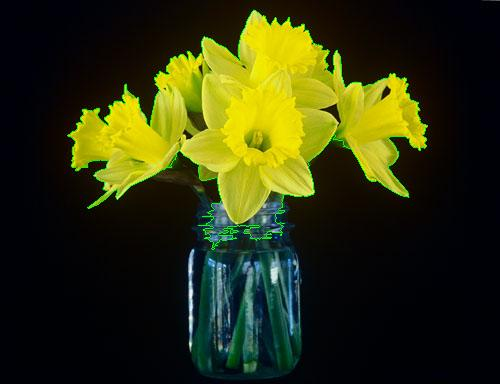
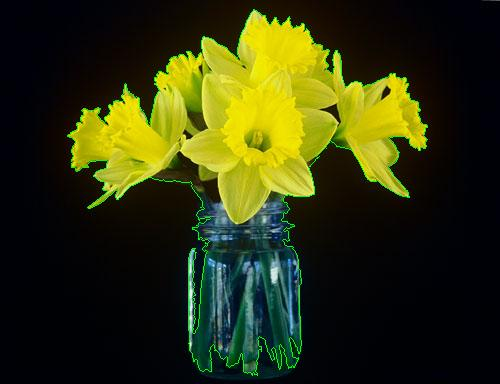
-Add new test`s image, -Little fix in names of functions, -Add documentation

diff --git a/Image.py b/Image.py
@@ -1,16 +1,17 @@
 from PIL import Image, ImageDraw
-from Backward_contour_tracing import BackwardTracindContor
+from Backward_contour_tracing import BackwardTracingContour
 import math
 
 
 class Picture:
     """
-
+    Class with represent Image. Class can find contour, make new segmentation`s
+    image from given, show and save image.
     """
     def __init__(self, name):
         """
-
-        :param name:
+        Init the class, open an image and make a copy`s image.
+        :param name: str
         """
         self.__image = Image.open(name)
         self.__seg_im = self.__image.copy()
@@ -18,18 +19,19 @@ class Picture:
 
     def find_contor(self):
         """
-
-        :return:
+        Find pixels with are in the contour.
+        :return: list
         """
-        bst = BackwardTracindContor(self.__seg_im)
+        bst = BackwardTracingContour(self.__seg_im)
         self.contor = bst.contor
 
         return bst.contor
 
     def segmentation(self):
         """
-
-        :return:
+        This function make a white-black image from the normal image. And use an another function
+        is_black() which are inside the segmentation().
+        :return: None
         """
         width = self.__seg_im.size[0]  # Ширина.
         height = self.__seg_im.size[1]  # Висота.
@@ -37,9 +39,10 @@ class Picture:
 
         def is_black(rgb):
             """
-
-            :param rgb:
-            :return:
+            This function take`s pixel which represent by list of rgb-colors and find
+            an Evklid`s value.
+            :param rgb: list
+            :return: bool
             """
             return math.sqrt(rgb[0] ** 2 + rgb[1] ** 2 + rgb[2] ** 2) < 50
 
@@ -54,8 +57,8 @@ class Picture:
 
     def show_image(self):
         """
-
-        :return:
+        This function draw contour onto given image and show new image.
+        :return: None
         """
 
         draw = ImageDraw.Draw(self.__image)
@@ -68,9 +71,9 @@ class Picture:
 
     def save_as(self, sava_as):
         """
-
-        :param sava_as:
-        :return:
+        This function can save ready image in JPEG format.
+        :param sava_as: sting
+        :return: None
         """
         self.__image.save(sava_as, "JPEG")
 

diff --git a/Tent.py b/Tent.py
@@ -2,12 +2,15 @@ import math
 
 
 class Tent:
+    """
+    This class represent eight connecting net.
+    """
     def __init__(self, pixel, pixels, start_position):
         """
-
-        :param pixel:
-        :param pixels:
-        :param start_position:
+        Init the pixel in centre of net, and net starting from the give position.
+        :param pixel: list
+        :param pixels: dict
+        :param start_position: int
         """
         self.__pixels = pixels
         self.__pixel = pixel
@@ -17,8 +20,8 @@ class Tent:
 
     def __create_tent(self):
         """
-
-        :return:
+        This function create net from neighborhood of active pixel.
+        :return: list(tuple(int,int)...)
         """
         tent = [(self.__pixel[0], self.__pixel[1] - 1), (self.__pixel[0] + 1, self.__pixel[1] - 1),
                 (self.__pixel[0] + 1, self.__pixel[1]), (self.__pixel[0] + 1, self.__pixel[1] + 1),
@@ -29,8 +32,8 @@ class Tent:
 
     def clock_next(self):
         """
-
-        :return:
+        Add value to clock counter and return current pixel
+        :return: pixel
         """
         self.clock_num += 1
 
@@ -41,8 +44,8 @@ class Tent:
 
     def non_cloc_next(self):
         """
-
-        :return:
+        Add value to non-clock counter and return current pixel
+        :return: pixel
         """
         self.non_clock_num -= 1
         if self.non_clock_num < 0:
@@ -53,13 +56,20 @@ class Tent:
     @staticmethod
     def is_black(pixel):
         """
-
-        :param pixel:
-        :return:
+        This function take`s pixel which represent by list of rgb-colors and find
+        an Evklid`s value.
+        :param pixel: tuple(int,int,int)
+        :return:bool
         """
         return math.sqrt(pixel[0] ** 2 + pixel[1] ** 2 + pixel[2] ** 2) < 80
 
     def is_contor(self, position):
+        """
+        Check if the pixel which are on given position in matrix of pixels
+        are in the contour.
+        :param position: int
+        :return: bool
+        """
         if position == 0:
             next = 1
             previous = 7

diff --git a/Backward_contour_tracing.py b/Backward_contour_tracing.py
@@ -2,8 +2,17 @@ from Tent import Tent
 import math
 
 
-class BackwardTracindContor:
+class BackwardTracingContour:
+    """
+    This class represent the backward tracing contour algorithms.
+    And have only two function find_pixel(), find_contour().
+    """
     def __init__(self, image):
+        """
+        Classes init the and init matrix of pixels from image and
+        init a width and height of image.
+        :param image:
+        """
         self.__pixels = image.load()
         self.__width = image.size[0]
         self.__height = image.size[1]
@@ -33,8 +42,9 @@ class BackwardTracindContor:
 
     def find_contor(self):
         """
-
-        :return:
+        Find contour of given segmentation`s image
+        by backward tracing contour algorithms.
+        :return: None
         """
         self.contor.append(self.Ps)
         self.Pa = self.Ps

diff --git a/Main.py b/Main.py
@@ -1,9 +1,13 @@
 from Image import Picture
 
+"""
+Main module, that runs all program
+"""
+
 for i in range(1, 9):
     image = Picture("Data/test%d.jpg" % i)
     image.segmentation()
     image.find_contor()
     image.show_image()
-    image.save_as("result%d.jpeg" % i)
+    image.save_as("Data/result%d.jpeg" % i)
 

diff --git a/README.md b/README.md
@@ -1,1 +1,2 @@
 # BackwardContourTracing
+
